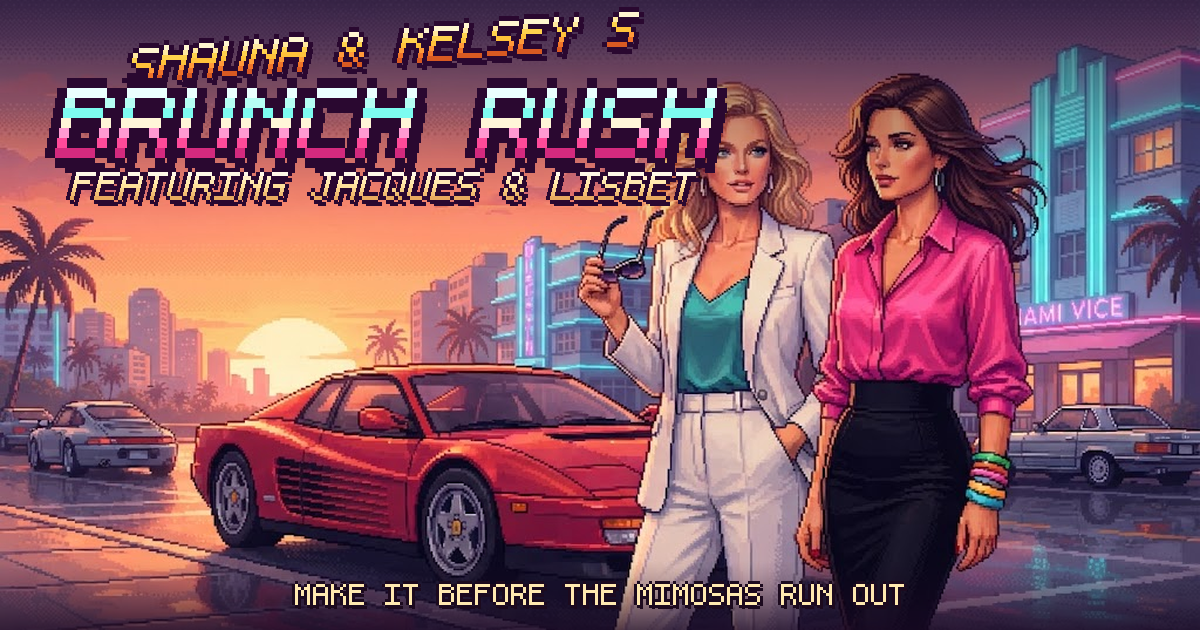
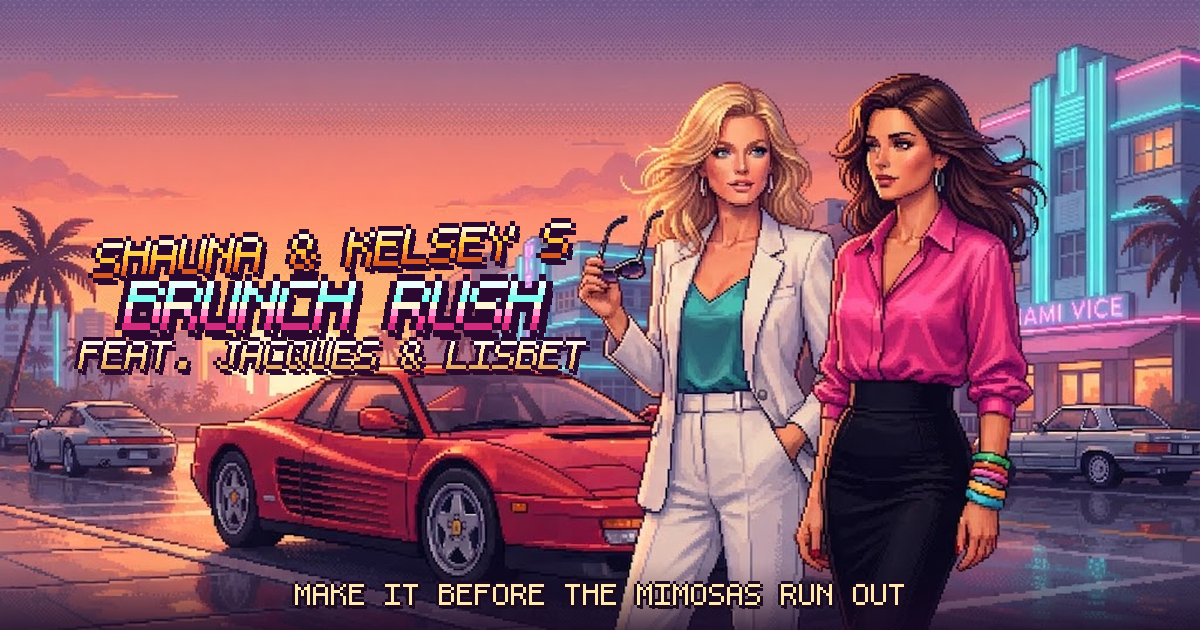
Title lowered on menu; share card rebuilt to match

diff --git a/index.html b/index.html
@@ -8,22 +8,22 @@
 <meta property="og:description" content="Race Ocean Drive before the unlimited mimosas run out. Pour a glass to start.">
 <meta property="og:type" content="website">
 <meta property="og:url" content="https://doubledekr.github.io/Brunch-Rush/">
-<meta property="og:image" content="https://doubledekr.github.io/Brunch-Rush/og.png?v=1788138086">
+<meta property="og:image" content="https://doubledekr.github.io/Brunch-Rush/og.png?v=1788138206">
 <meta property="og:image:width" content="1200">
 <meta property="og:image:height" content="630">
 <meta name="twitter:card" content="summary_large_image">
 <meta name="twitter:title" content="Shauna and Kelsey&#39;s Brunch Rush featuring Jacques and Lisbet">
 <meta name="twitter:description" content="Race Ocean Drive before the unlimited mimosas run out.">
-<meta name="twitter:image" content="https://doubledekr.github.io/Brunch-Rush/og.png?v=1788138086">
-<meta property="og:image:secure_url" content="https://doubledekr.github.io/Brunch-Rush/og.png?v=1788138086">
+<meta name="twitter:image" content="https://doubledekr.github.io/Brunch-Rush/og.png?v=1788138206">
+<meta property="og:image:secure_url" content="https://doubledekr.github.io/Brunch-Rush/og.png?v=1788138206">
 <meta property="og:image:type" content="image/png">
 <meta property="og:image:alt" content="Shauna and Kelsey with a red Testarossa on Ocean Drive at sunset - Brunch Rush">
 <meta property="og:site_name" content="Brunch Rush">
 <meta name="twitter:image:alt" content="Shauna and Kelsey's Brunch Rush featuring Jacques and Lisbet">
 <meta name="theme-color" content="#ff4a9a">
-<link rel="image_src" href="https://doubledekr.github.io/Brunch-Rush/og.png?v=1788138086">
-<link rel="apple-touch-icon" href="https://doubledekr.github.io/Brunch-Rush/og.png?v=1788138086">
-<link rel="icon" href="https://doubledekr.github.io/Brunch-Rush/og.png?v=1788138086">
+<link rel="image_src" href="https://doubledekr.github.io/Brunch-Rush/og.png?v=1788138206">
+<link rel="apple-touch-icon" href="https://doubledekr.github.io/Brunch-Rush/og.png?v=1788138206">
+<link rel="icon" href="https://doubledekr.github.io/Brunch-Rush/og.png?v=1788138206">
 <style>
   html,body{margin:0;padding:0;height:100%;overflow:hidden;background:#14061f;touch-action:none;
     -webkit-user-select:none;user-select:none;font-family:'Courier New',monospace;}
@@ -1602,55 +1602,55 @@ function drawPlayer(cx,cy){
 }
 // ---------- brunch cutscene ----------
 let cutT=0,inCut=false,titleMode=true;
-const TITLE_BG='assets/title_bg.png?v=1788138086';
-const WIN_BG='assets/win_bg.png?v=1788138086';
-const CAR_SPR='assets/car_spr.png?v=1788138086';
-const WORLD_BG='assets/world_bg.png?v=1788138086';
-const SPR_GLASS='assets/spr_glass.png?v=1788138086';
+const TITLE_BG='assets/title_bg.png?v=1788138206';
+const WIN_BG='assets/win_bg.png?v=1788138206';
+const CAR_SPR='assets/car_spr.png?v=1788138206';
+const WORLD_BG='assets/world_bg.png?v=1788138206';
+const SPR_GLASS='assets/spr_glass.png?v=1788138206';
 const GLASS_IN=[[-1, -1], [19, 34], [15, 35], [11, 39], [10, 40], [10, 41], [9, 41], [9, 41], [8, 42], [8, 42], [8, 42], [8, 42], [8, 42], [8, 42], [8, 42], [8, 42], [7, 42], [7, 42], [7, 43], [7, 43], [7, 43], [7, 43], [7, 43], [7, 43], [7, 43], [7, 43], [7, 43], [7, 43], [7, 43], [7, 43], [7, 43], [7, 44], [7, 44], [6, 45], [6, 44], [6, 44], [6, 44], [6, 44], [6, 44], [6, 44], [6, 44], [5, 44], [5, 44], [5, 45], [5, 45], [5, 46], [5, 46], [5, 46], [5, 46], [5, 46], [5, 46], [5, 45], [5, 45], [5, 45], [5, 45], [5, 46], [5, 46], [5, 45], [5, 45], [5, 45], [5, 46], [5, 46], [5, 46], [5, 46], [5, 46], [4, 46], [4, 46], [4, 45], [4, 45], [5, 45], [5, 45], [5, 45], [5, 45], [5, 45], [6, 44], [6, 43], [7, 43], [7, 43], [7, 43], [7, 42], [8, 42], [9, 41], [9, 41], [9, 41], [10, 40], [11, 39], [11, 38], [13, 37], [13, 37], [13, 36], [14, 36], [14, 36], [14, 35], [15, 34], [17, 33], [17, 32], [18, 31], [20, 30], [20, 30], [-1, -1], [-1, -1], [-1, -1], [-1, -1], [-1, -1], [-1, -1], [-1, -1], [-1, -1], [-1, -1], [-1, -1], [-1, -1], [-1, -1], [-1, -1], [-1, -1], [-1, -1], [-1, -1], [-1, -1], [-1, -1], [-1, -1], [-1, -1], [-1, -1], [-1, -1], [-1, -1], [-1, -1], [-1, -1], [-1, -1], [-1, -1], [-1, -1], [-1, -1], [-1, -1], [-1, -1], [-1, -1], [-1, -1], [-1, -1], [-1, -1], [-1, -1], [-1, -1], [-1, -1], [-1, -1], [-1, -1], [-1, -1], [-1, -1], [-1, -1], [-1, -1], [-1, -1], [-1, -1], [-1, -1], [-1, -1], [-1, -1], [-1, -1], [-1, -1], [-1, -1], [-1, -1], [-1, -1], [-1, -1], [-1, -1], [-1, -1], [-1, -1], [-1, -1], [-1, -1], [-1, -1], [-1, -1], [-1, -1], [-1, -1], [-1, -1], [-1, -1], [-1, -1], [-1, -1], [-1, -1], [-1, -1], [-1, -1]];
-const TIPSY_BG='assets/tipsy_bg.png?v=1788138086';
-const BOARD_BG='assets/board_bg.png?v=1788138086';
-const JACQUES_BG='assets/scene_jacques.png?v=1788138086';
-const LOOKUP_BG='assets/scene_lookup.png?v=1788138086';
-const BURGER_BG='assets/scene_burger.png?v=1788138086';
-const DINER_BG='assets/scene_diner.png?v=1788138086';
-const PARTY_BG='assets/scene_party.png?v=1788138086';
-const FLOOR_BG='assets/scene_dancefloor.png?v=1788138086';
-const BFFS_BG='assets/scene_bffs.png?v=1788138086';
-const PENT_MUSIC='assets/pent_music.m4a?v=1788138086';
-const DANCE_MUSIC='assets/dance_music.m4a?v=1788138086';
-const FOOD_SRC={burger:'assets/food_burger.png?v=1788138086',fries:'assets/food_fries.png?v=1788138086',shake:'assets/food_shake.png?v=1788138086',rings:'assets/food_rings.png?v=1788138086',ticket:'assets/food_ticket.png?v=1788138086',phone:'assets/food_phone.png?v=1788138086'};
+const TIPSY_BG='assets/tipsy_bg.png?v=1788138206';
+const BOARD_BG='assets/board_bg.png?v=1788138206';
+const JACQUES_BG='assets/scene_jacques.png?v=1788138206';
+const LOOKUP_BG='assets/scene_lookup.png?v=1788138206';
+const BURGER_BG='assets/scene_burger.png?v=1788138206';
+const DINER_BG='assets/scene_diner.png?v=1788138206';
+const PARTY_BG='assets/scene_party.png?v=1788138206';
+const FLOOR_BG='assets/scene_dancefloor.png?v=1788138206';
+const BFFS_BG='assets/scene_bffs.png?v=1788138206';
+const PENT_MUSIC='assets/pent_music.m4a?v=1788138206';
+const DANCE_MUSIC='assets/dance_music.m4a?v=1788138206';
+const FOOD_SRC={burger:'assets/food_burger.png?v=1788138206',fries:'assets/food_fries.png?v=1788138206',shake:'assets/food_shake.png?v=1788138206',rings:'assets/food_rings.png?v=1788138206',ticket:'assets/food_ticket.png?v=1788138206',phone:'assets/food_phone.png?v=1788138206'};
 const DANCER_SRC={shauna:'assets/dance_shauna_',kelsey:'assets/dance_kelsey_',jacques:'assets/dance_jacques_',lisbet:'assets/dance_lisbet_'};
-const BUILD_V='1788138086';
-const BEAT_SRC=['assets/beat_glass.png?v=1788138086','assets/beat_note.png?v=1788138086','assets/beat_star.png?v=1788138086','assets/beat_flamingo.png?v=1788138086'];
-const PENT_BG='assets/pent_bg.png?v=1788138086';
-const SPR_PELICAN='assets/spr_pelican.png?v=1788138086';
-const TRIO_SRC=['assets/trio_00.png?v=1788138086','assets/trio_01.png?v=1788138086','assets/trio_02.png?v=1788138086','assets/trio_10.png?v=1788138086','assets/trio_11.png?v=1788138086','assets/trio_12.png?v=1788138086'];
-const VO_GIG='assets/vo_gig.m4a?v=1788138086';
-const VO_EEK='assets/vo_eek.m4a?v=1788138086';
-const MIX_BG='assets/mix_bg.png?v=1788138086';
-const SPR_JUG='assets/spr_jug.png?v=1788138086';
-const SPR_BOTTLE='assets/spr_bottle.png?v=1788138086';
-const SPR_SPARK='assets/spr_spark.png?v=1788138086';
-const STORY_BG='assets/story_bg.png?v=1788138086';
-const SPR_MIMOSA='assets/spr_mimosa.png?v=1788138086';
-const VO_OHMAN='assets/vo_ohman.m4a?v=1788138086';
-const VO_HURRY='assets/vo_hurry.m4a?v=1788138086';
-const VO_NEVER='assets/vo_never.m4a?v=1788138086';
-const LOSE_SIGN='assets/lose_sign.png?v=1788138086';
-const VO_GO='assets/vo_go.m4a?v=1788138086';
-const VO_CHEERS='assets/vo_cheers.m4a?v=1788138086';
-const VO_GOODMIX='assets/vo_goodmix.m4a?v=1788138086';
-const VO_BADMIX='assets/vo_badmix.m4a?v=1788138086';
-const PHONE_BG='assets/phone_bg.png?v=1788138086';
-const BRUNCH_MUSIC='assets/brunch_music.m4a?v=1788138086';
-const WOBBLE_MUSIC='assets/wobble_music.m4a?v=1788138086';
-const LISBET_MUSIC='assets/lisbet_music.m4a?v=1788138086';
-const MUSIC_DATA='assets/music_data.m4a?v=1788138086';
-const SPR_CONE='assets/spr_cone.png?v=1788138086';
-const SPR_VOLT='assets/spr_volt.png?v=1788138086';
-const SPR_CROISS='assets/spr_croiss.png?v=1788138086';
-const SPR_TRUCK='assets/spr_truck.png?v=1788138086';
+const BUILD_V='1788138206';
+const BEAT_SRC=['assets/beat_glass.png?v=1788138206','assets/beat_note.png?v=1788138206','assets/beat_star.png?v=1788138206','assets/beat_flamingo.png?v=1788138206'];
+const PENT_BG='assets/pent_bg.png?v=1788138206';
+const SPR_PELICAN='assets/spr_pelican.png?v=1788138206';
+const TRIO_SRC=['assets/trio_00.png?v=1788138206','assets/trio_01.png?v=1788138206','assets/trio_02.png?v=1788138206','assets/trio_10.png?v=1788138206','assets/trio_11.png?v=1788138206','assets/trio_12.png?v=1788138206'];
+const VO_GIG='assets/vo_gig.m4a?v=1788138206';
+const VO_EEK='assets/vo_eek.m4a?v=1788138206';
+const MIX_BG='assets/mix_bg.png?v=1788138206';
+const SPR_JUG='assets/spr_jug.png?v=1788138206';
+const SPR_BOTTLE='assets/spr_bottle.png?v=1788138206';
+const SPR_SPARK='assets/spr_spark.png?v=1788138206';
+const STORY_BG='assets/story_bg.png?v=1788138206';
+const SPR_MIMOSA='assets/spr_mimosa.png?v=1788138206';
+const VO_OHMAN='assets/vo_ohman.m4a?v=1788138206';
+const VO_HURRY='assets/vo_hurry.m4a?v=1788138206';
+const VO_NEVER='assets/vo_never.m4a?v=1788138206';
+const LOSE_SIGN='assets/lose_sign.png?v=1788138206';
+const VO_GO='assets/vo_go.m4a?v=1788138206';
+const VO_CHEERS='assets/vo_cheers.m4a?v=1788138206';
+const VO_GOODMIX='assets/vo_goodmix.m4a?v=1788138206';
+const VO_BADMIX='assets/vo_badmix.m4a?v=1788138206';
+const PHONE_BG='assets/phone_bg.png?v=1788138206';
+const BRUNCH_MUSIC='assets/brunch_music.m4a?v=1788138206';
+const WOBBLE_MUSIC='assets/wobble_music.m4a?v=1788138206';
+const LISBET_MUSIC='assets/lisbet_music.m4a?v=1788138206';
+const MUSIC_DATA='assets/music_data.m4a?v=1788138206';
+const SPR_CONE='assets/spr_cone.png?v=1788138206';
+const SPR_VOLT='assets/spr_volt.png?v=1788138206';
+const SPR_CROISS='assets/spr_croiss.png?v=1788138206';
+const SPR_TRUCK='assets/spr_truck.png?v=1788138206';
 function mkImg(u){const i=new Image();i.src=u;return i;}
 const titleImg=mkImg(TITLE_BG), winImg=mkImg(WIN_BG), carImg=mkImg(CAR_SPR), worldImg=mkImg(WORLD_BG);
 const coneImg=mkImg(SPR_CONE), voltImg=mkImg(SPR_VOLT), croissImg=mkImg(SPR_CROISS), truckImg=mkImg(SPR_TRUCK);
@@ -1812,13 +1812,13 @@ function canvasXY(e){
 }
 const inRect=(p2,r)=>r&&p2.x>=r.x&&p2.x<=r.x+r.w&&p2.y>=r.y&&p2.y<=r.y+r.h;
 function drawStartButton(){
-  startRect=drawPixelBtn('START',W/2,H*0.66,3);
+  startRect=drawPixelBtn('START',W/2,H*0.70,3);
 }
 function drawTitleText(){
   const bob=Math.round(Math.sin(t*1.8)*2);
-  pxText("SHAUNA & KELSEY'S",110,86+bob,2,ROWS_GOLD,'#2a0830',0.5,0.3,1);
-  pxText('BRUNCH RUSH',110,106+bob,3,ROWS_CYMG,'#2a0830',0,0.6,2);
-  pxText('FEAT. JACQUES & LISBET',110,132+bob,2,ROWS_CREAM,'#2a0830',0,0.3,1);
+  pxText("SHAUNA & KELSEY'S",110,100+bob,2,ROWS_GOLD,'#2a0830',0.5,0.3,1);
+  pxText('BRUNCH RUSH',110,120+bob,3,ROWS_CYMG,'#2a0830',0,0.6,2);
+  pxText('FEAT. JACQUES & LISBET',110,146+bob,2,ROWS_CREAM,'#2a0830',0,0.3,1);
   pxText('HOLD SIDES TO STEER',W/2,H-52,2,ROWS_CREAM);
   pxText('BONUSES +1 SEC   VOLT +2 SEC',W/2,H-35,2,'#aefcf6');
   pxText('VOLT = SPEED   CRASH = -3 SEC',W/2,H-18,2,'#c0fc3a');
